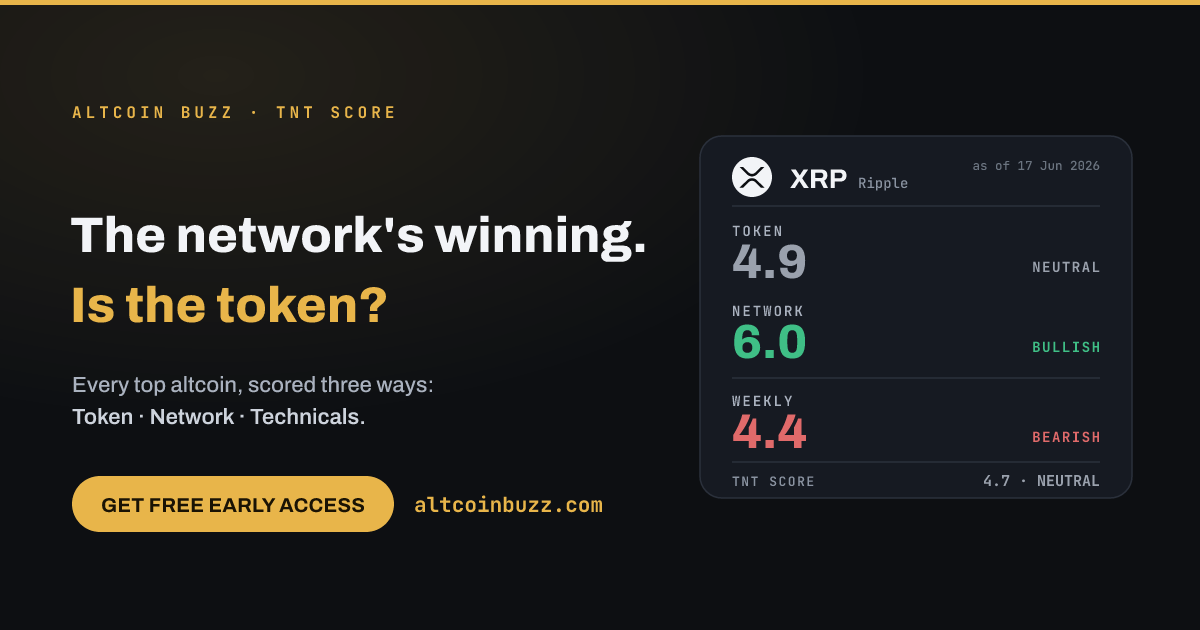
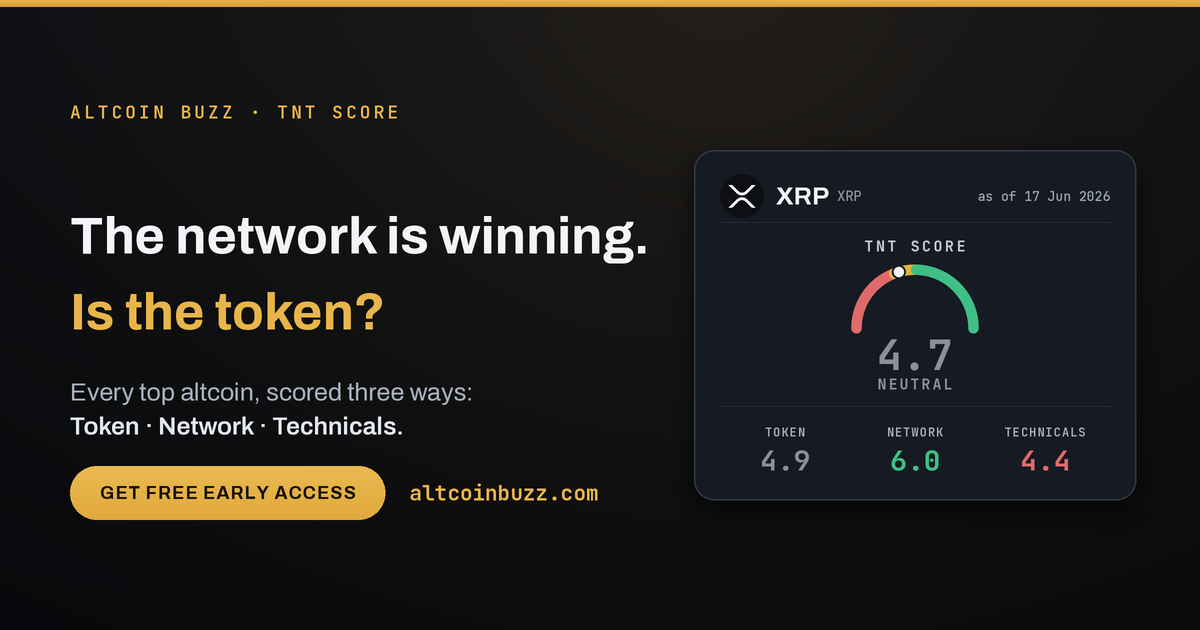
Add files via upload

diff --git a/early-access/index.html b/early-access/index.html
@@ -28,14 +28,14 @@
 <meta property="og:image" content="https://josephkhansf.github.io/altcoin-buzz-mockups/early-access/og-image.png">
 <meta property="og:image:width" content="1200">
 <meta property="og:image:height" content="630">
-<meta property="og:image:alt" content="Altcoin Buzz TNT Score. XRP scored Token 4.9, Network 6.0, Weekly 4.4. The network is winning. Is the token?">
+<meta property="og:image:alt" content="Altcoin Buzz TNT Score. XRP scored Token 4.9, Network 6.0, Technicals 4.4. The network is winning. Is the token?">
 <meta name="twitter:card" content="summary_large_image">
 <meta name="twitter:site" content="@Altcoinbuzzio">
 <meta name="twitter:creator" content="@Altcoinbuzzio">
 <meta name="twitter:title" content="The network is winning. Is the token? · Altcoin Buzz TNT Score">
 <meta name="twitter:description" content="Every top altcoin scored three ways. See whether the news actually moves the token, or just the network. Free early access.">
 <meta name="twitter:image" content="https://josephkhansf.github.io/altcoin-buzz-mockups/early-access/og-image.png">
-<meta name="twitter:image:alt" content="Altcoin Buzz TNT Score. XRP scored Token 4.9, Network 6.0, Weekly 4.4.">
+<meta name="twitter:image:alt" content="Altcoin Buzz TNT Score. XRP scored Token 4.9, Network 6.0, Technicals 4.4.">
 
 <!-- ── Analytics: Plausible (privacy-light, cookieless; DESIGN intent = no heavy trackers) ──
      ⚠ CONFIG: data-domain MUST equal the property name added in the Plausible dashboard